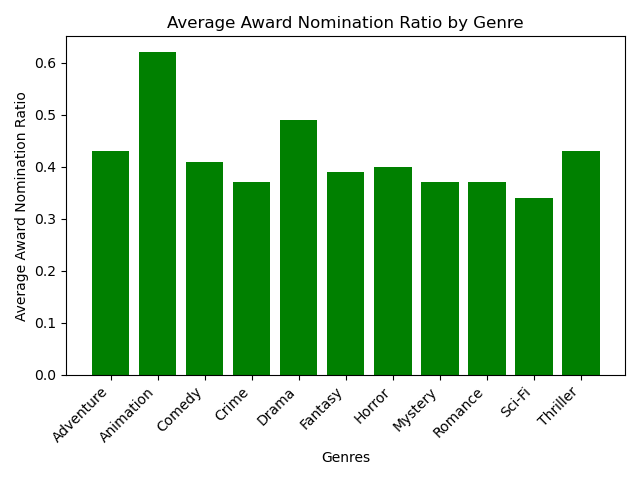
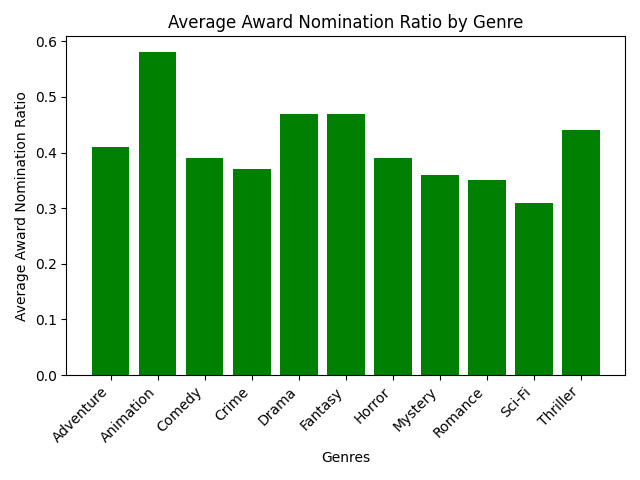
Clean up visualization

diff --git a/visualize.py b/visualize.py
@@ -1,6 +1,46 @@
-import requests
-import sqlite3
-import re 
+import matplotlib.pyplot as plt 
+
+def create_avg_rating(movie_data, genres):
+    avg_ratings = [movie_data[genre]['avg_rating'] for genre in genres]
+    ratings_bars_color = ['orange']
+    plt.figure()
+    plt.bar(genres, avg_ratings, color=ratings_bars_color)
+    plt.xticks(rotation=45, ha='right')
+    plt.xlabel('Genres')
+    plt.ylabel('Average Movie Rating')
+    plt.title('Average Movie Rating by Genre')
+    plt.tight_layout()
+    plt.savefig('Average Movie Rating by Genre')
+    plt.show()
+
+
+def create_avg_boxrevenue(movie_data,genres):
+    avg_box_office = [movie_data[genre]['avg_box_revenue'] / 1000000 for genre in genres]
+    revenue_bars_color = ['blue']
+    plt.figure()
+    plt.bar(genres, avg_box_office, color=revenue_bars_color)
+    plt.xticks(rotation=45, ha='right')
+    plt.xlabel('Genres')
+    plt.ylabel('Average Box Office Revenue (Millions $)')
+    plt.title('Average Box Office Revenue by Genre')
+    plt.tight_layout()
+    plt.savefig('Average Box Office Revenue by Genre')
+    plt.show()
+
+
+def create_avg_ratio(movie_data,genres):
+    avg_award_nom = [movie_data[genre]['avg_award_nom_ratio'] for genre in genres]
+    award_bars_color = ['green']
+    plt.figure()
+    plt.bar(genres, avg_award_nom, color=award_bars_color)
+    plt.xticks(rotation=45, ha='right')
+    plt.xlabel('Genres')
+    plt.ylabel('Average Award Nomination Ratio')
+    plt.title('Average Award Nomination Ratio by Genre')
+    plt.tight_layout()
+    plt.savefig('Average Award Nomination Ratio by Genre')
+    plt.show()
+
 
 def read_genre_data(filename):
     genre_data = {}
@@ -34,5 +74,8 @@ def read_genre_data(filename):
 
 def driver_visualize():
     '''Main application driver for visualize'''
-    genre_data = read_genre_data("genre_information.txt")
-    print(genre_data)
+    movie_data = read_genre_data("genre_information.txt")
+    genres = list(movie_data.keys())
+    create_avg_rating(movie_data,genres)
+    create_avg_boxrevenue(movie_data,genres)
+    create_avg_ratio(movie_data,genres)

diff --git a/application_driver.py b/application_driver.py
@@ -4,7 +4,7 @@ from visualize import driver_visualize
 
 def main():
     """Main Application Driver"""
-    #driver_database()
+    driver_database()
     driver_analisis()
     driver_visualize()
 
